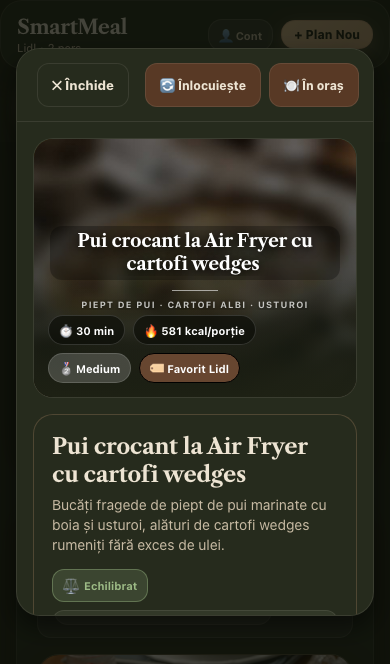
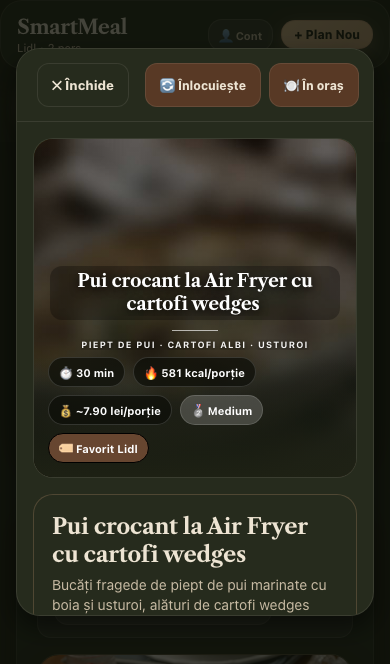
fix(ui): the recipe shows its cost per serving again (A.11f-7)

diff --git a/src/screens/__tests__/recipeCostPerServing.component.test.tsx b/src/screens/__tests__/recipeCostPerServing.component.test.tsx
@@ -1,0 +1,42 @@
+import React from 'react';
+import { render, screen } from '@testing-library/react-native';
+import { RecipeDetailModal } from '../RecipeDetailModal';
+import { estimateRecipeCost } from '../recipeDetail/recipeContent';
+import { useAppStore } from '../../store/useAppStore';
+import { RECIPES } from '../../data/recipes';
+
+const recipe = RECIPES[0];
+
+describe('the recipe sheet shows what one serving costs (A.11f-7)', () => {
+  beforeEach(() => {
+    render(
+      <RecipeDetailModal
+        visible
+        recipe={recipe}
+        servings={2}
+        onClose={jest.fn()}
+        onSwap={jest.fn()}
+        isDark={false}
+      />
+    );
+  });
+
+  test('a chip next to the time and calories reads the estimated cost per serving', () => {
+    const { supermarketId } = useAppStore.getState().preferences;
+    const { formattedCostPerServing } = estimateRecipeCost(recipe, supermarketId, 2);
+
+    expect(screen.getByText(`💰 ~${formattedCostPerServing} lei/porție`)).toBeTruthy();
+  });
+
+  test('its accessible name says it in Romanian words', () => {
+    expect(
+      screen.getByLabelText(/^Cost estimat: aproximativ \d+\.\d{2} lei pe porție$/)
+    ).toBeTruthy();
+  });
+
+  test('the total time is still shown once, as prep plus cook', () => {
+    const total = recipe.prepTimeMinutes + recipe.cookTimeMinutes;
+
+    expect(screen.getAllByText(`⏱ ${total} min`)).toHaveLength(1);
+  });
+});

diff --git a/src/screens/recipeDetail/RecipeHero.tsx b/src/screens/recipeDetail/RecipeHero.tsx
@@ -13,6 +13,7 @@ interface RecipeHeroProps {
   theme: RecipeDetailTheme;
   isDark: boolean;
   totalTime: number;
+  formattedCostPerServing: string;
   supermarketId: SupermarketId;
 }
 
@@ -21,6 +22,7 @@ export const RecipeHero: React.FC<RecipeHeroProps> = ({
   theme,
   isDark,
   totalTime,
+  formattedCostPerServing,
   supermarketId,
 }) => (
   <>
@@ -45,6 +47,18 @@ export const RecipeHero: React.FC<RecipeHeroProps> = ({
         >
           <Text style={[styles.heroPillText, { color: theme.onPhoto }]}>
             🔥 {recipe.nutritionPerServing.calories} kcal/porție
+          </Text>
+        </View>
+        <View
+          accessible
+          accessibilityLabel={`Cost estimat: aproximativ ${formattedCostPerServing} lei pe porție`}
+          style={[
+            styles.heroPill,
+            { backgroundColor: theme.photoPill, borderColor: theme.onPhotoBorder },
+          ]}
+        >
+          <Text style={[styles.heroPillText, { color: theme.onPhoto }]}>
+            💰 ~{formattedCostPerServing} lei/porție
           </Text>
         </View>
         {recipe.tier && (

diff --git a/src/screens/RecipeDetailModal.tsx b/src/screens/RecipeDetailModal.tsx
@@ -102,7 +102,7 @@ export const RecipeDetailModal: React.FC<RecipeDetailModalProps> = ({
 
   const chefTips = getChefTipsForRecipe(recipe);
   const substitutions = getSubstitutionsForRecipe(recipe);
-  const { formattedTotalCost } = estimateRecipeCost(
+  const { formattedCostPerServing, formattedTotalCost } = estimateRecipeCost(
     recipe,
     preferences.supermarketId,
     activeServings
@@ -149,6 +149,7 @@ export const RecipeDetailModal: React.FC<RecipeDetailModalProps> = ({
                   theme={theme}
                   isDark={isDark}
                   totalTime={totalTime}
+                  formattedCostPerServing={formattedCostPerServing}
                   supermarketId={preferences.supermarketId}
                 />
                 <RecipeSummaryCard

diff --git a/src/screens/recipeDetail/styles.ts b/src/screens/recipeDetail/styles.ts
@@ -4,6 +4,8 @@ import { titleFont } from '../../styles/typography';
 /** The room between the header's buttons, and the smallest tap target a thumb can hit. */
 const HEADER_GAP = 8;
 const MIN_TOUCH_TARGET = 44;
+/** Tall enough that up to three rows of chips never cover the picture's own ingredient line. */
+const HERO_HEIGHT = 340;
 
 export const styles = StyleSheet.create({
   modalOverlay: {
@@ -117,7 +119,7 @@ export const styles = StyleSheet.create({
   },
   heroCard: {
     width: '100%',
-    height: 260,
+    height: HERO_HEIGHT,
     borderRadius: 20,
     overflow: 'hidden',
     position: 'relative',
